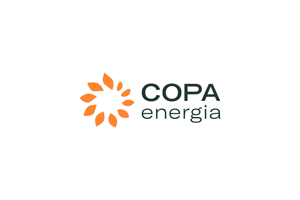
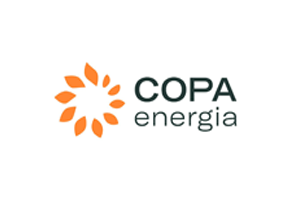
Adicionando Novos Clientes
Adicionando novos clientes solicitados pela empresa e redimencionando algumas logotipos.

Changed region(s): [[0.18, 0.3, 0.81, 0.69]]

diff --git a/index.html b/index.html
@@ -172,36 +172,44 @@
                 <div class="col-1"></div>
                 <div class="col-10">
                     <div class="tabela">
-                        <table class="table-bordered">
+                        <table class="table table-bordered">
                             <tr>
                                 <td><a href="https://www.vibraenergia.com.br/br-aviation-club" target="_blank"><img 
                                     src="imagens/clientes/aviation.png" alt="BR Aviation"></a></td>
+                                <td><a href="https://www.cbbasfaltos.com.br/" target="_blank"><img
+                                    src="imagens/clientes/cbb.png" alt="CBB Asfaltos"></a></td>
                                 <td><a href="https://www.ceva.com.br/" target="_blank"><img
                                     src="imagens/clientes/ceva.png" alt="Ceva"></a></td>
                                 <td><a href="https://www.copaenergia.com.br/" target="_blank"><img
                                     src="imagens/clientes/copaEnergia.png" alt="Copa Energia"></a></td>
-                                <td><a href="https://br.dow.com/pt-br.html" target="_blank"><img
-                                    src="imagens/clientes/dow.png" alt="Dow"></a></td>
                             </tr>
                             <tr>
+                                <td><a href="https://br.dow.com/pt-br.html" target="_blank"><img
+                                    src="imagens/clientes/dow.png" alt="Dow"></a></td>
                                 <td><a href="https://globequimica.com.br/" target="_blank"><img
                                     src="imagens/clientes/globeQuimica.png" alt="Globe Quimica"></a></td>
                                 <td><a href="https://klabin.com.br/" target="_blank"><img
                                     src="imagens/clientes/klabin.png" alt="Klabin"></a></td>
                                 <td><a href="https://mangels.com.br/" target="_blank"><img
                                     src="imagens/clientes/mangels.png" alt="Mangels"></a></td>
-                                <td><a href="https://www.petrobras.com.br/" target="_blank"><img
-                                    src="imagens/clientes/petrobras.png" alt="Petrobras"></a></td>
                             </tr>
                             <tr>
+                                <td><a href="https://www.petrobras.com.br/" target="_blank"><img
+                                    src="imagens/clientes/petrobras.png" alt="Petrobras"></a></td>
                                 <td><a href="https://www.raizen.com.br/" target="_blank"><img
                                     src="imagens/clientes/raizen.png" alt="Raizen"></a></td>
                                 <td><a href="https://stratura.com.br/" target="_blank"><img
                                     src="imagens/clientes/stratura.png" alt="Stratura"></a></td>
                                 <td><a href="https://www.supergasbras.com.br/" target="_blank"><img
                                     src="imagens/clientes/supergasbras.png" alt="Super Gás Bras"></a></td>
+                            </tr>
+                            <tr>
+                                <td style="border-left-color: white; border-bottom-color: white;"></td>
+                                <td><a href="https://transpetro.com.br/transpetro-institucional/" target="_blank"><img
+                                    src="imagens/clientes/transpetro.png" alt="Transpetro"></a></td>
                                 <td><a href="https://www.vibraenergia.com.br/" target="_blank"><img
                                     src="imagens/clientes/vibra.png" alt="Vibra"></a></td>
+                                <td style="border-right-color: white; border-bottom-color: white;"></td>
                             </tr>
                         </table>
                         <br>
